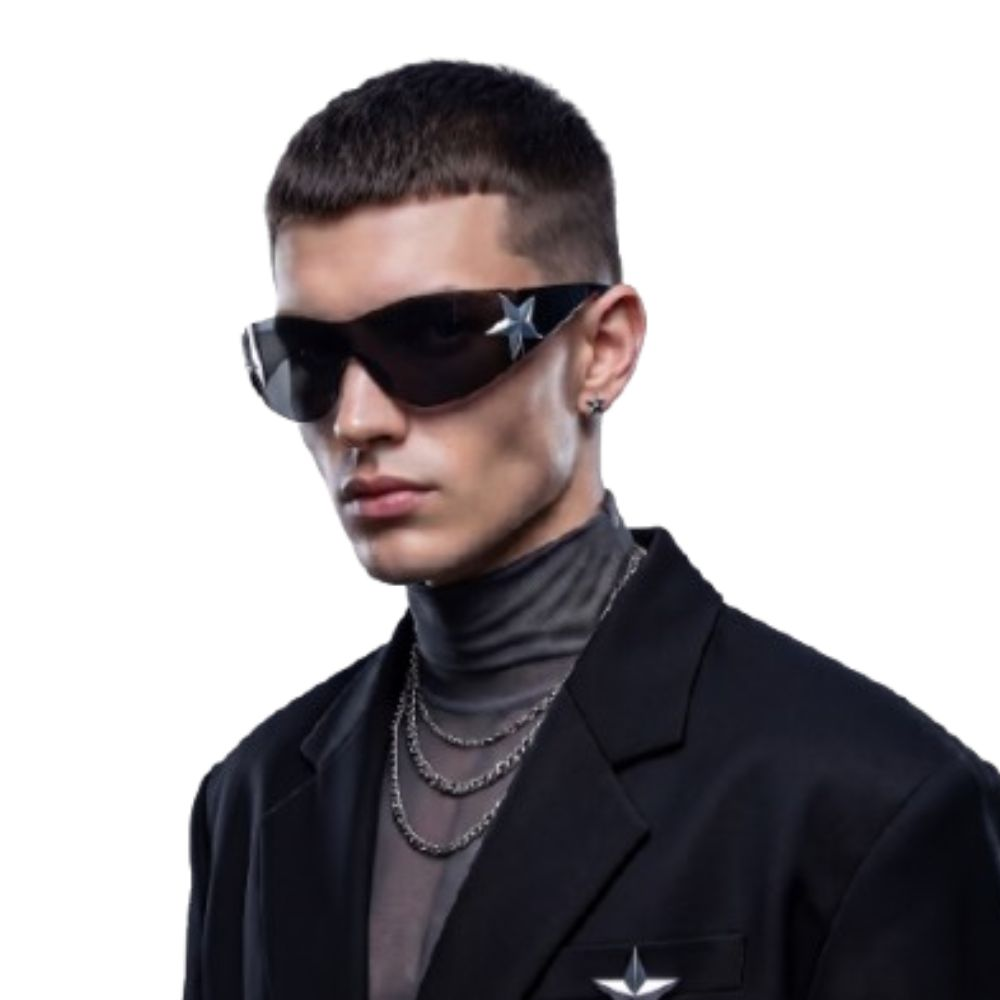
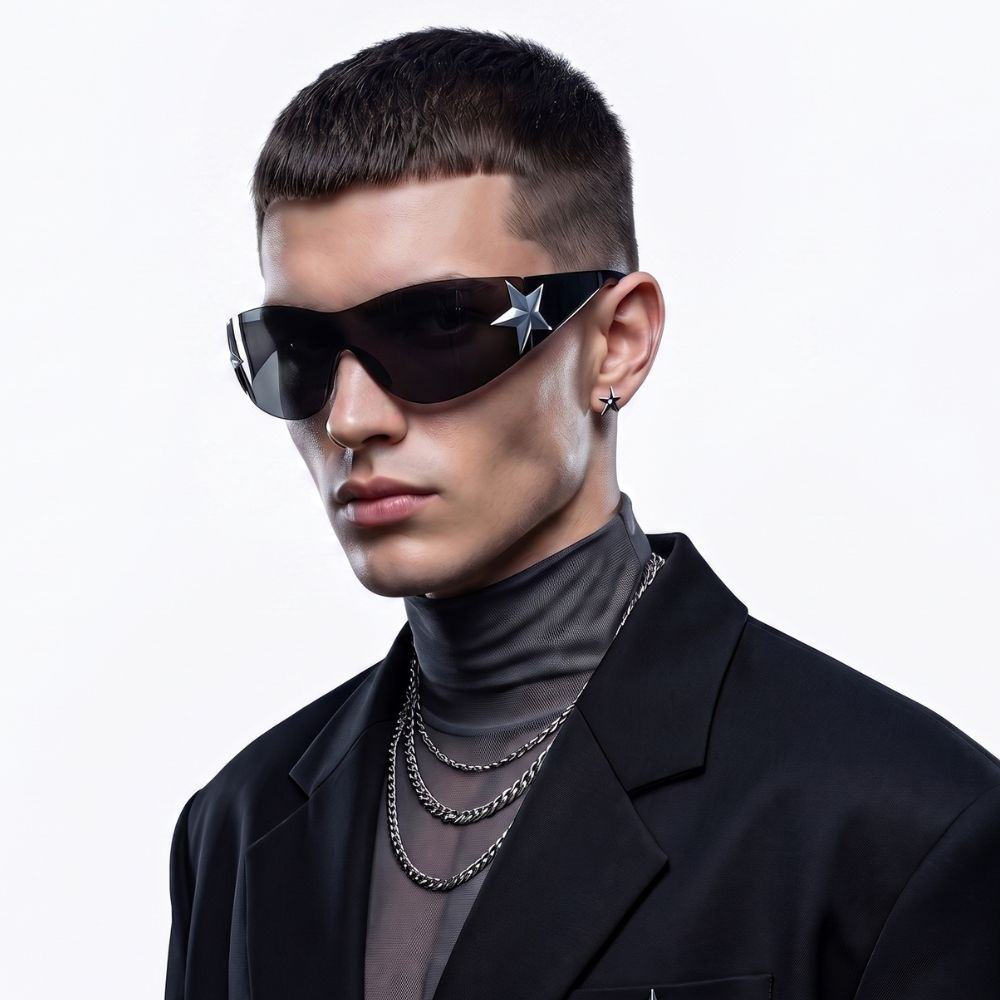
Update Prada model image and implement hover zoom for product gallery

diff --git a/public/css/style.css b/public/css/style.css
@@ -2567,13 +2567,15 @@ input, select, textarea {
 .gallery-main-viewport {
     position: relative;
     width: 100%;
-    height: 480px;
+    height: 540px;
     background: transparent;
     border: none;
     display: flex;
     align-items: center;
     justify-content: center;
     overflow: hidden;
+    cursor: zoom-in;
+    border-radius: 12px;
 }
 
 .gallery-main-img {
@@ -2581,6 +2583,10 @@ input, select, textarea {
     max-height: 100%;
     object-fit: contain;
     transition: opacity 0.3s ease, transform 0.4s cubic-bezier(0.16, 1, 0.3, 1);
+}
+
+.gallery-main-viewport:hover .gallery-main-img {
+    transform: scale(1.4);
 }
 
 .gallery-nav-btn {
